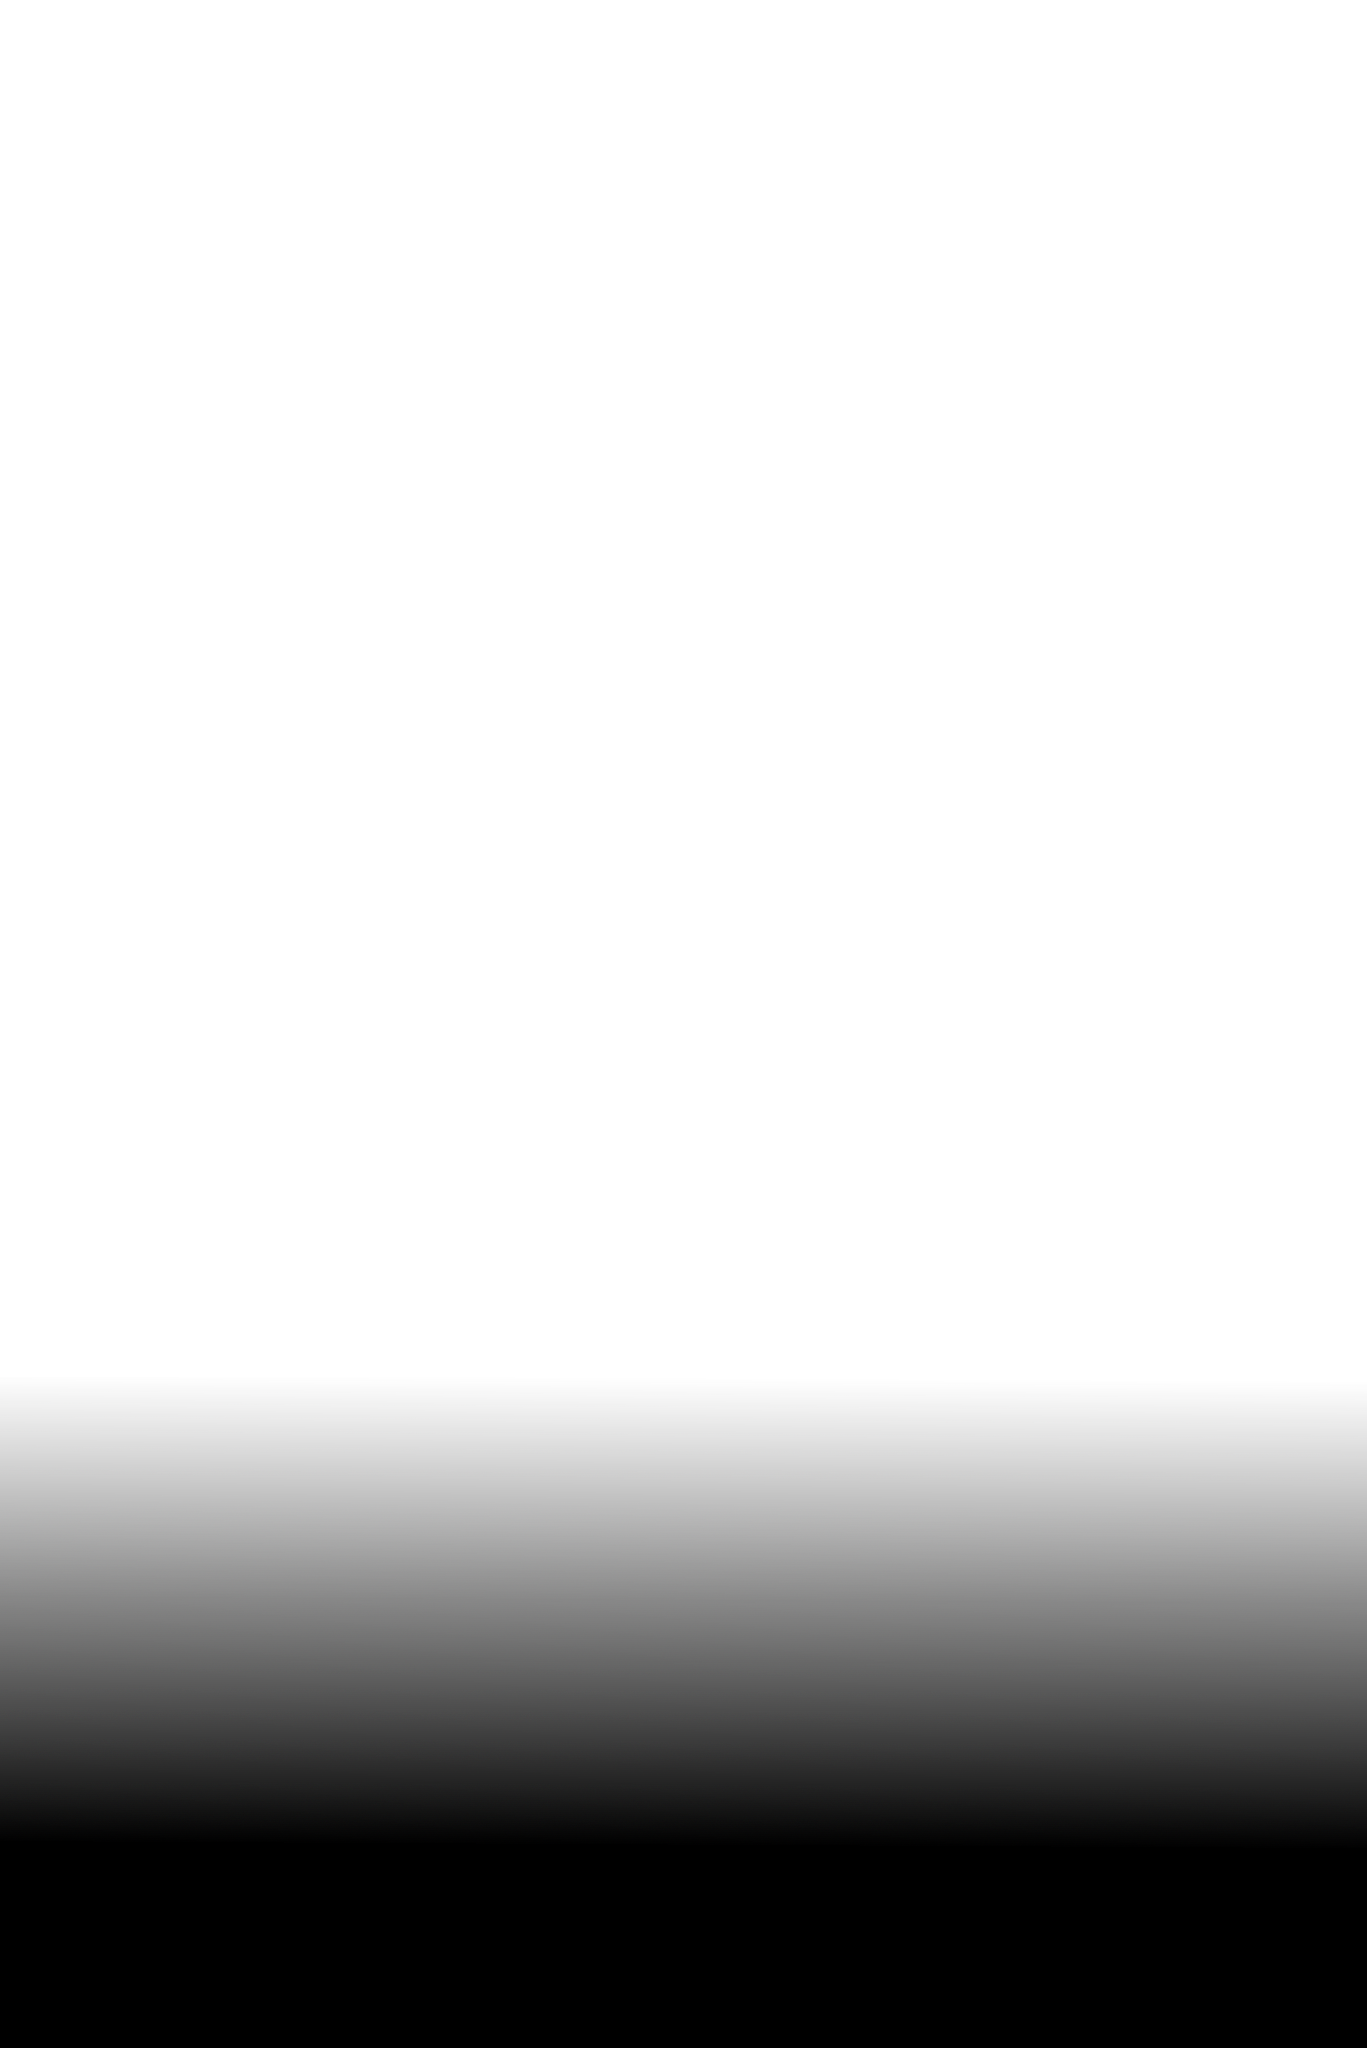
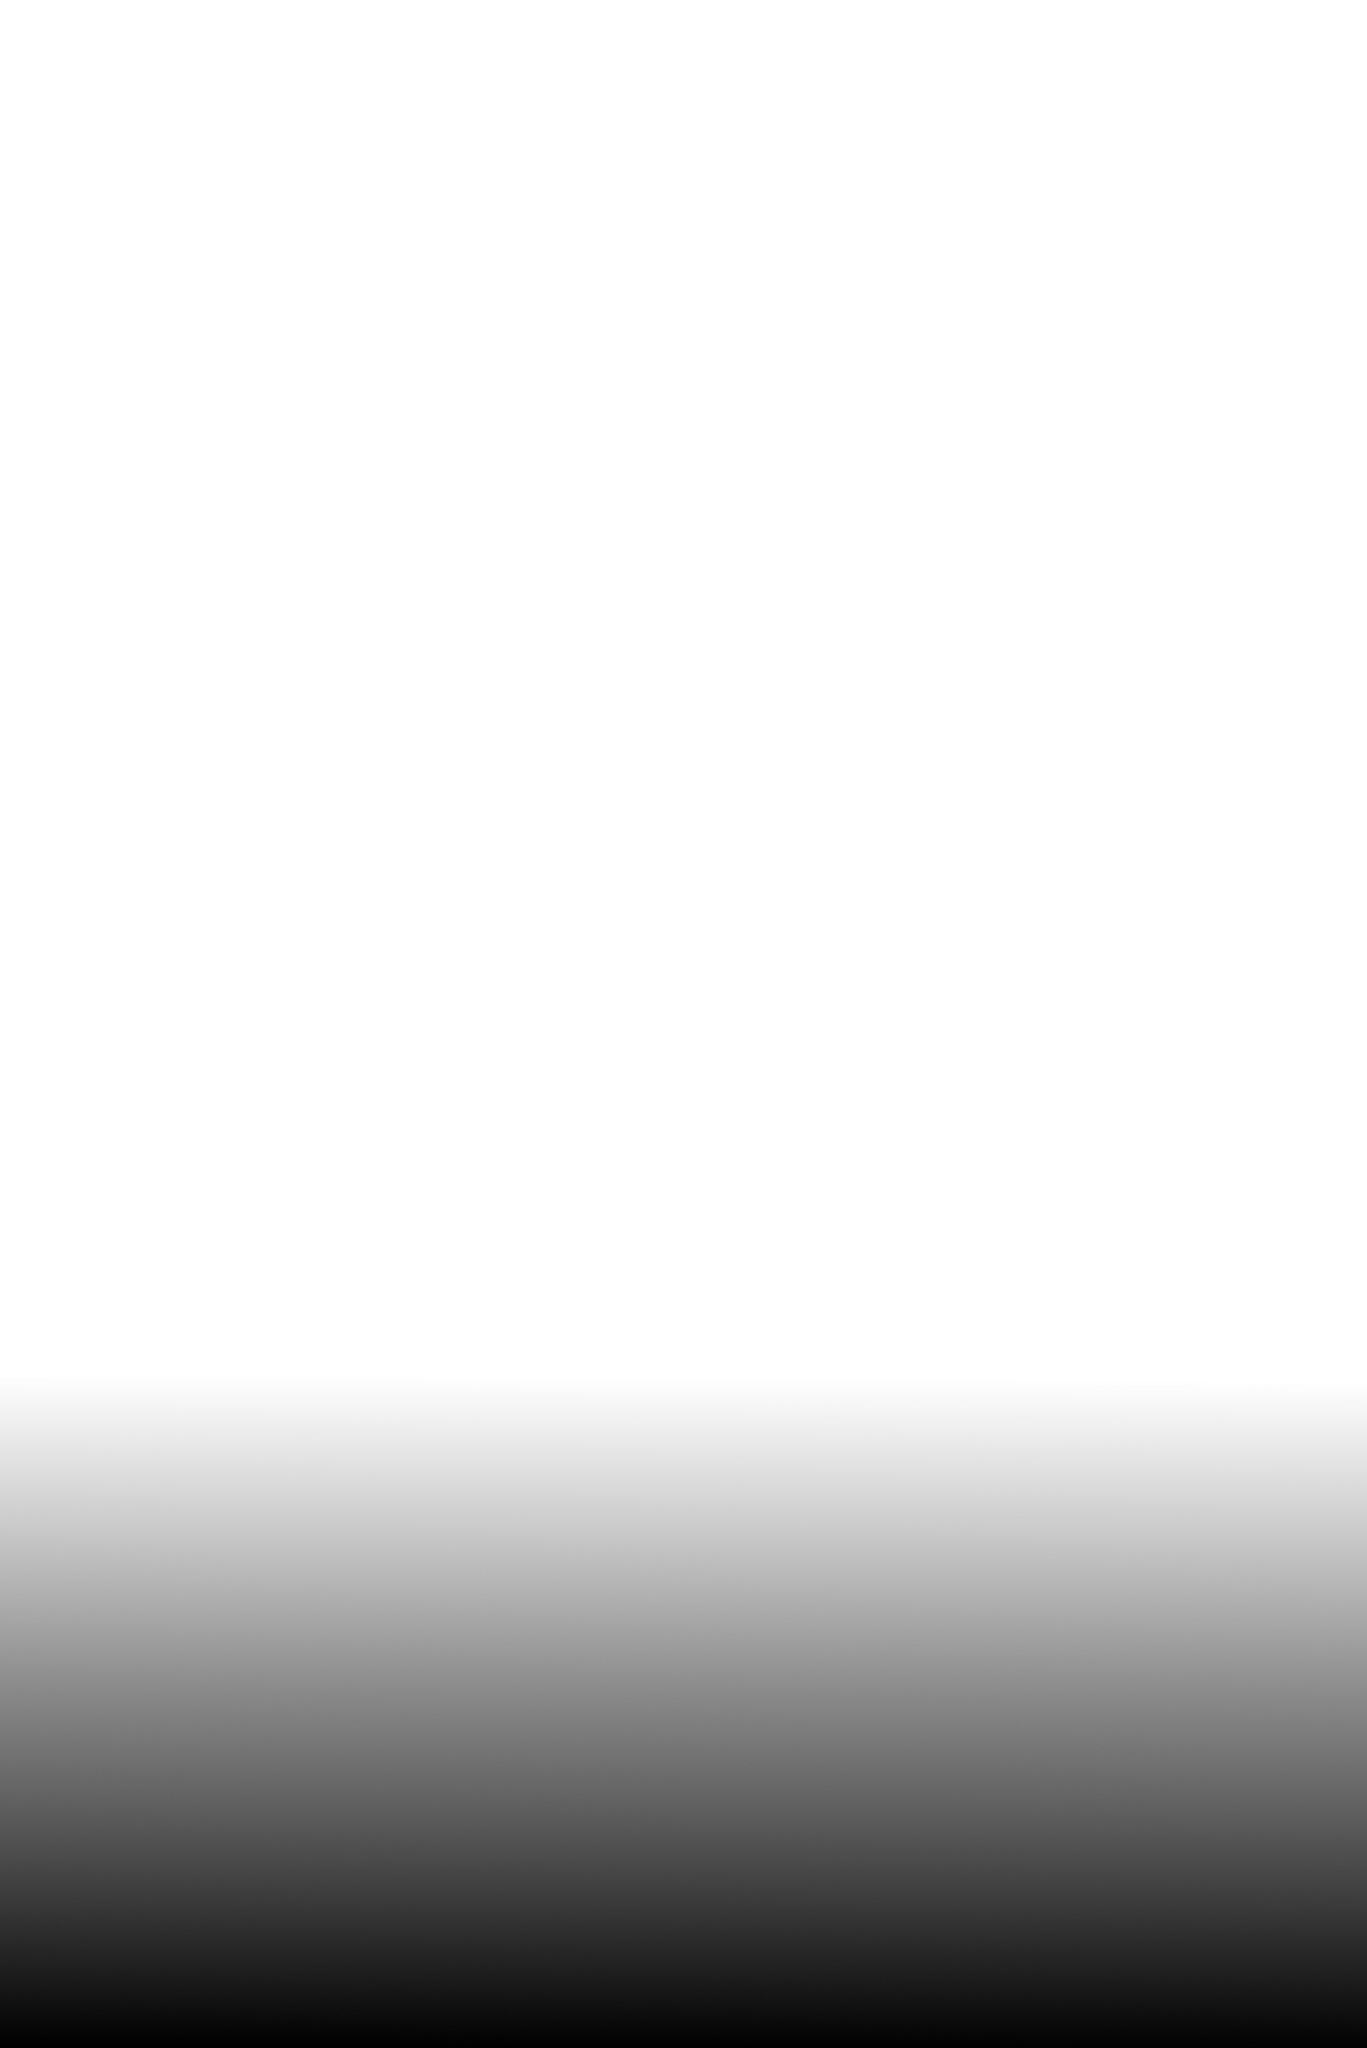
Layer works

Changed region(s): [[0.0, 0.7188, 1.0, 1.0]]

diff --git a/index.html b/index.html
@@ -40,7 +40,7 @@
                     <i class="fa fa-bars"></i>
                 </button>
                 <a class="navbar-brand page-scroll" href="#page-top">
-                    <i class="fa fa-play-circle"></i>  <span class="light">Start</span> Bootstrap
+                    <i class="fa fa-play-circle"></i>  <span class="light">Brian Wang
                 </a>
             </div>
 
@@ -74,7 +74,7 @@
                 <div class="row">
                     <div class="col-md-8 col-md-offset-2">
                         <h1 class="brand-heading">Brian Wang</h1>
-                        <p class="intro-text">Mobie/Backend Developer</p>
+                        <p class="intro-text">Mobile/Backend Developer</p>
                         <a href="#about" class="btn btn-circle page-scroll">
                             <i class="fa fa-angle-double-down animated"></i>
                         </a>

diff --git a/css/grayscale.css b/css/grayscale.css
@@ -148,8 +148,7 @@ a:focus {
     padding: 100px 0;
     text-align: center;
     color: #fff;
-    background-image: url(../img/coverphoto-combined.jpg);
-    background: no-repeat bottom scroll;
+    background: url(../img/coverphoto-layer.png) bottom scroll, url(../img/coverphoto.jpg) center scroll;
     background-color: #000;
     -webkit-background-size: cover;
     -moz-background-size: cover;
